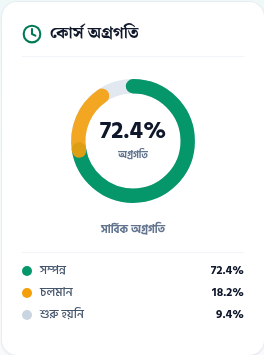
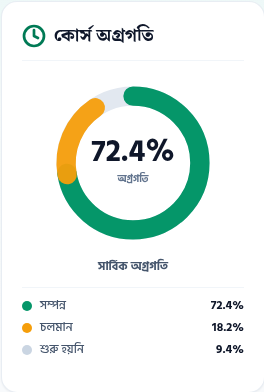
fix(admin): finalize course progress card sizing and refine recent reports table styling

diff --git a/web/src/app/admin/page.tsx b/web/src/app/admin/page.tsx
@@ -874,29 +874,29 @@ export default function AdminOverviewPage() {
                 <tbody className="divide-y divide-slate-50">
                   {recentReports.map((report, idx) => (
                     <tr key={idx} className="hover:bg-slate-50/70 transition">
-                      <td className="py-2.5 pr-2 font-semibold text-[#0F172A] text-xs whitespace-nowrap">
+                      <td className="py-2 pr-2 font-semibold text-[#0F172A] text-xs whitespace-nowrap">
                         {report.name}
                       </td>
-                      <td className="py-2.5 px-2 whitespace-nowrap">
+                      <td className="py-2 px-2 whitespace-nowrap">
                         <span
                           className={`inline-block px-2 py-0.5 rounded-full text-[10px] font-bold ${report.typeColor}`}
                         >
                           {report.type}
                         </span>
                       </td>
-                      <td className="py-2.5 px-2 text-slate-500 text-xs whitespace-nowrap">
+                      <td className="py-2 px-2 text-slate-500 text-xs whitespace-nowrap">
                         {report.date}
                       </td>
-                      <td className="py-2.5 px-2 whitespace-nowrap">
-                        <span className="inline-flex items-center gap-1.5 px-2 py-0.5 rounded-full text-[10px] font-bold bg-[#E6F8ED] text-[#16A34A]">
+                      <td className="py-2 px-2 whitespace-nowrap">
+                        <span className="inline-flex items-center gap-1.5 px-2 py-0.5 rounded-full text-[10px] font-bold bg-[#E6F8ED] text-[#16A34A] border border-emerald-100">
                           <span className="w-1.5 h-1.5 rounded-full bg-[#16A34A]" />
                           {report.status}
                         </span>
                       </td>
-                      <td className="py-2.5 pl-2 text-right whitespace-nowrap">
+                      <td className="py-2 pl-2 text-right whitespace-nowrap">
                         <Link
                           href={report.link}
-                          className="inline-flex items-center justify-center w-6 h-6 rounded-full text-slate-400 hover:text-emerald-700 bg-slate-50 hover:bg-slate-100 transition shadow-2xs"
+                          className="inline-flex items-center justify-center px-2 py-0.5 rounded-full border border-slate-200 hover:border-emerald-300 text-emerald-600 bg-white hover:bg-slate-50 transition shadow-2xs"
                           title={isBangla ? 'রিপোর্ট দেখুন' : 'View Report'}
                         >
                           <Eye className="w-3.5 h-3.5" />
@@ -1150,21 +1150,21 @@ export default function AdminOverviewPage() {
         <div className="md:col-span-12 lg:col-span-3 bg-white rounded-2xl p-4 sm:p-5 border border-slate-200/80 shadow-xs flex flex-col justify-between">
           <div>
             <div className="flex items-center gap-2 pb-2.5 border-b border-slate-100">
-              <Clock className="w-5 h-5 text-emerald-700 shrink-0" strokeWidth={2.5} />
-              <h3 className="text-[15px] sm:text-base font-extrabold text-[#0F172A] font-serif">
+              <Clock className="w-6 h-6 text-emerald-700 shrink-0" strokeWidth={2.7} />
+              <h3 className="text-base sm:text-lg font-black text-[#0F172A] font-serif">
                 {isBangla ? 'কোর্স অগ্রগতি' : 'Course Progress'}
               </h3>
             </div>
 
-            <div className="flex flex-col items-center justify-center my-3">
-              <div className="relative w-32 h-32 sm:w-36 sm:h-36 flex items-center justify-center">
+            <div className="flex flex-col items-center justify-center my-3.5">
+              <div className="relative w-40 h-40 sm:w-44 sm:h-44 flex items-center justify-center">
                 <svg className="w-full h-full transform -rotate-90" viewBox="0 0 100 100">
                   <circle
                     cx="50"
                     cy="50"
                     r="38"
                     stroke="#E2E8F0"
-                    strokeWidth="10"
+                    strokeWidth="11"
                     fill="none"
                   />
                   <circle
@@ -1172,7 +1172,7 @@ export default function AdminOverviewPage() {
                     cy="50"
                     r="38"
                     stroke="#059669"
-                    strokeWidth="10"
+                    strokeWidth="11"
                     strokeDasharray="238.76"
                     strokeDashoffset={238.76 * (1 - 0.724)}
                     strokeLinecap="round"
@@ -1183,26 +1183,26 @@ export default function AdminOverviewPage() {
                     cy="50"
                     r="38"
                     stroke="#F59E0B"
-                    strokeWidth="10"
+                    strokeWidth="11"
                     strokeDasharray="238.76"
                     strokeDashoffset={238.76 * (1 - 0.182)}
                     strokeLinecap="round"
                     fill="none"
-                    className="opacity-90"
+                    className="opacity-95"
                     style={{ transformOrigin: '50% 50%', transform: 'rotate(260deg)' }}
                   />
                 </svg>
                 <div className="absolute inset-0 flex flex-col items-center justify-center text-center">
-                  <span className="text-2xl font-black text-[#0F172A] tracking-tight leading-none">
+                  <span className="text-3xl font-black text-[#0F172A] tracking-tight leading-none">
                     72.4%
                   </span>
-                  <span className="text-[9.5px] text-slate-500 font-bold mt-1 tracking-wider">
+                  <span className="text-[10px] text-slate-500 font-bold mt-1 tracking-wider uppercase">
                     {isBangla ? 'অগ্রগতি' : 'Progress'}
                   </span>
                 </div>
               </div>
 
-              <span className="text-[11px] font-bold text-slate-500 text-center mt-2 block">
+              <span className="text-xs font-bold text-slate-600 text-center mt-2 block tracking-tight">
                 {isBangla ? 'সার্বিক অগ্রগতি' : 'Overall Progress'}
               </span>
 
